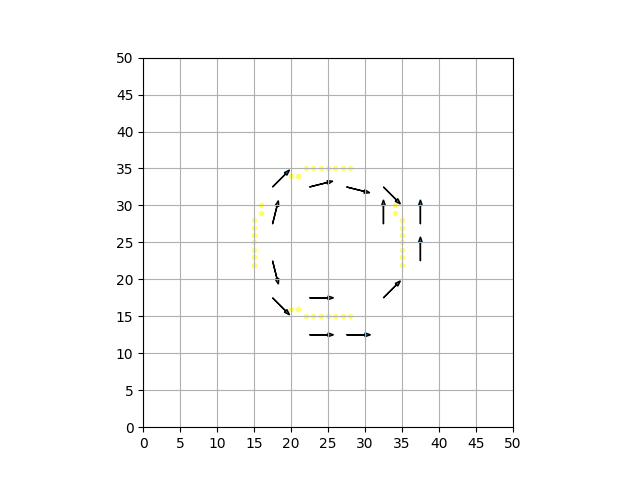
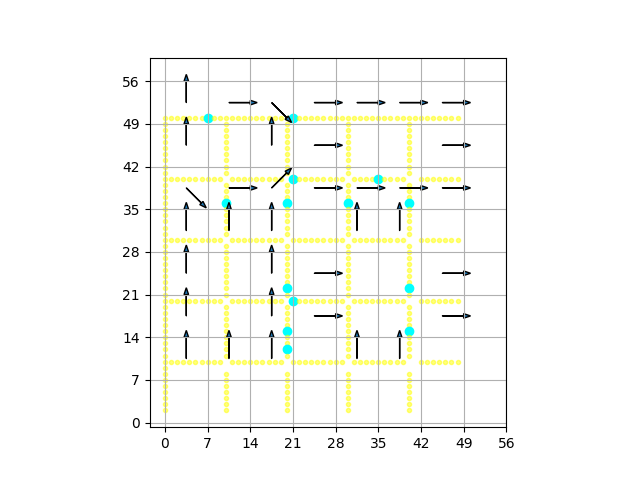
stared looking for splits and removing t points

diff --git a/main.py b/main.py
@@ -6,21 +6,31 @@ import timeit
 from math import cos, sin
 
 import numba
+from numpy.lib.stride_tricks import sliding_window_view
 import numpy as np
 from matplotlib import pyplot as plt
 from PIL import Image, ImageDraw, ImageFilter
 
 from gradient import find_gradient, find_ones
 
+BOX_SIZE = 7
 
-def find_edges(image):
+
+def edge_detection(image):
 
     image = image.filter(ImageFilter.FIND_EDGES)
     return image
 
 
 def load(file_name):
+    # Load the image
     image = Image.open(file_name)
+
+    # Convert to standard size
+    image = resize_image(image)
+
+    # Format the image as grayscale
+    image = image.convert("L")
 
     return image
 
@@ -60,11 +70,22 @@ def process_args():
     return filename
 
 
-def plot_gradients(image_array, edges, gradients, BOX_SIZE):
-    ones = find_ones(image_array)
+def plot_gradients(image_array, gradients):
+    edges_positions = find_ones(image_array)
 
-    for one in ones:
-        plt.scatter(one[1], len(image_array) - one[0], color=(1, 1, 0, 0.5), marker=".")
+    for edge in edges_positions:
+
+        if image_array[edge[0], edge[1]] == 2:
+
+            plt.scatter(
+                edge[1], len(image_array) - edge[0], color=(0, 1, 1, 1), marker="o"
+            )
+        if image_array[edge[0], edge[1]] == 1:
+
+            plt.scatter(
+                edge[1], len(image_array) - edge[0], color=(1, 1, 0, 0.5), marker="."
+            )
+
     print("Scatter done!")
     gradients = gradients[::-1]
     for i in range(0, len(gradients)):
@@ -87,18 +108,219 @@ def plot_gradients(image_array, edges, gradients, BOX_SIZE):
                 (i) * BOX_SIZE + BOX_SIZE / 2,
                 dx,
                 dy,
-                head_width=0.5,
+                head_width=0.75,
             )
 
     print("Arrows done!")
 
-    edges.show()
     plt.gca().set_aspect("equal")
     plt.grid()
     plt.xticks(np.arange(0, len(image_array[0]) + BOX_SIZE, BOX_SIZE))
     plt.yticks(np.arange(0, len(image_array) + BOX_SIZE, BOX_SIZE))
-    # plt.show()
     plt.savefig("out.png")
+
+
+def is_perpendicular(grad1, grad2):
+
+    epsilon = 1
+    if abs(grad2) == 0:
+
+        return np.isinf(abs(grad1))
+
+    if abs(grad1) == 0:
+
+        return np.isinf(grad1)
+
+    if np.isinf(abs(grad1)):
+
+        return abs(grad2) == 0
+
+    if np.isinf(abs(grad2)):
+
+        return abs(grad1) == 0
+
+    # print(grad1, grad2, abs(grad1 - (-1 / grad2)) < epsilon)
+    return abs(grad1 - (-1 / grad2)) < epsilon
+
+
+def find_nearest_edge(point, edges):
+    min_distance = math.inf
+    min_edge = None
+    for edge in edges:
+        distance = math.hypot(point[0] - edge[0], point[1] - edge[1])
+        if distance < min_distance:
+            min_distance = distance
+            min_edge = edge
+
+    if min_edge is None:
+        raise ValueError("No edge found")
+    return min_edge
+
+
+def find_splits(image_array, gradients):
+    edges = find_ones(image_array)
+    for i in range(len(gradients)):
+        for j in range(len(gradients[i])):
+
+            if np.isnan(gradients[i, j]):
+                continue
+
+            # Orthoganals
+            if i < len(gradients) - 1:
+                if not np.isnan(gradients[i + 1, j]):
+
+                    if is_perpendicular(gradients[i, j], gradients[i + 1, j]):
+                        image_i = (i + 1) * BOX_SIZE
+                        image_j = (j) * BOX_SIZE + int(BOX_SIZE / 2)
+                        point = find_nearest_edge((image_i, image_j), edges)
+                        image_array[*point] = 2
+                        # print("hi")
+
+            if i > 0:
+                if not np.isnan(gradients[i - 1, j]):
+
+                    if is_perpendicular(gradients[i, j], gradients[i - 1, j]):
+                        image_i = (i - 1) * BOX_SIZE
+                        image_j = (j) * BOX_SIZE + int(BOX_SIZE / 2)
+                        point = find_nearest_edge((image_i, image_j), edges)
+                        image_array[*point] = 2
+                        # print("hi")
+
+            if j < len(gradients[0]) - 1:
+                if not np.isnan(gradients[i, j + 1]):
+
+                    if is_perpendicular(gradients[i, j], gradients[i, j + 1]):
+                        image_i = (i) * BOX_SIZE + int(BOX_SIZE / 2)
+                        image_j = (j + 1) * BOX_SIZE
+                        point = find_nearest_edge((image_i, image_j), edges)
+                        image_array[*point] = 2
+                        # print("hi")
+
+            if j > 0:
+                if not np.isnan(gradients[i, j - 1]):
+
+                    if is_perpendicular(gradients[i, j], gradients[i, j - 1]):
+                        image_i = (i) * BOX_SIZE + int(BOX_SIZE / 2)
+                        image_j = (j - 1) * BOX_SIZE
+                        point = find_nearest_edge((image_i, image_j), edges)
+                        image_array[*point] = 2
+                        # print("hi")
+
+            # Diagonals
+            if i < len(gradients) - 1 and j < len(gradients[0]) - 1:
+                if not np.isnan(gradients[i + 1, j + 1]):
+
+                    if is_perpendicular(gradients[i, j], gradients[i + 1, j + 1]):
+                        image_i = (i + 1) * BOX_SIZE
+                        image_j = (j + 1) * BOX_SIZE
+                        point = find_nearest_edge((image_i, image_j), edges)
+                        image_array[*point] = 2
+                        # print("hi")
+
+            if i > 0 and j < len(gradients[0]) - 1:
+                if not np.isnan(gradients[i - 1, j + 1]):
+
+                    if is_perpendicular(gradients[i, j], gradients[i - 1, j + 1]):
+                        image_i = (i - 1) * BOX_SIZE
+                        image_j = (j + 1) * BOX_SIZE
+                        point = find_nearest_edge((image_i, image_j), edges)
+                        image_array[*point] = 2
+                        # print("hi")
+
+            if i < len(gradients) - 1 and j > 0:
+                if not np.isnan(gradients[i + 1, j - 1]):
+
+                    if is_perpendicular(gradients[i, j], gradients[i + 1, j - 1]):
+                        image_i = (i + 1) * BOX_SIZE
+                        image_j = (j - 1) * BOX_SIZE
+                        point = find_nearest_edge((image_i, image_j), edges)
+                        image_array[*point] = 2
+                        # print("hi")
+
+            if i > 0 and j > 0:
+                if not np.isnan(gradients[i - 1, j - 1]):
+
+                    if is_perpendicular(gradients[i, j], gradients[i - 1, j - 1]):
+                        image_i = (i - 1) * BOX_SIZE
+                        image_j = (j - 1) * BOX_SIZE
+                        point = find_nearest_edge((image_i, image_j), edges)
+                        image_array[*point] = 2
+                        # print("hi")
+
+    return image_array
+
+
+def find_t_points(image_array):
+
+    subarrays = sliding_window_view(image_array, (3, 3))
+
+    cases = [
+        np.array(
+            [
+                [0, 1, 0],
+                [1, 1, 1],
+                [0, 1, 0],
+            ]
+        ),
+        np.array(
+            [
+                [0, 1, 0],
+                [1, 1, 0],
+                [0, 1, 0],
+            ]
+        ),
+        np.array(
+            [
+                [0, 1, 0],
+                [0, 1, 1],
+                [0, 1, 0],
+            ]
+        ),
+        np.array(
+            [
+                [0, 0, 0],
+                [1, 1, 1],
+                [0, 1, 0],
+            ]
+        ),
+        np.array(
+            [
+                [0, 1, 0],
+                [1, 1, 1],
+                [0, 0, 0],
+            ]
+        ),
+    ]
+    all_center_indices = []
+    for case in cases:
+        matches = np.all(subarrays == case, axis=(2, 3))
+        match_indices = np.argwhere(matches)
+        center_indices = match_indices + 1
+        for index in center_indices:
+            all_center_indices.append(index)
+
+    return np.array(all_center_indices)
+
+
+def remove_t_points(image_array):
+    for t in find_t_points(image_array):
+        image_array[t[0], t[1]] = 0
+    return image_array
+
+
+def find_gradients(image_array):
+    w = int(np.ceil(len(image_array) / BOX_SIZE))
+    h = int(np.ceil(len(image_array[0]) / BOX_SIZE))
+
+    gradients = np.full((w, h), math.nan, dtype=np.float64)
+
+    for i in range(0, len(image_array), BOX_SIZE):
+        for j in range(0, len(image_array[i]), BOX_SIZE):
+
+            gradient = find_gradient(image_array[i : i + BOX_SIZE, j : j + BOX_SIZE])
+            gradients[i // BOX_SIZE, j // BOX_SIZE] = gradient
+
+    return gradients
 
 
 def main():
@@ -108,27 +330,26 @@ def main():
 
     image = load(filename)
 
-    image = resize_image(image)
-    image_grayscale = image.convert("L")
-
-    edges = find_edges(image_grayscale)
-    image_array = np.array(edges)
+    # Dectect the edges of the image
+    image_edges = edge_detection(image)
+    # Convert the image to an array
+    image_array = np.array(image_edges)
     image_array = clear_array(image_array)
 
-    BOX_SIZE = 5
+    # Set all edges to 1 or 0 for non-edge
+    image_array = np.minimum(image_array, np.ones(image_array.shape))
 
-    w = int(np.ceil(len(image_array) / BOX_SIZE))
-    h = int(np.ceil(len(image_array[0]) / BOX_SIZE))
+    # Remove all (that I can find) T points
+    image = remove_t_points(image_array)
 
-    gradients = np.full((w, h), math.nan, dtype=np.float64)
-    for i in range(0, len(image_array), BOX_SIZE):
-        for j in range(0, len(image_array[i]), BOX_SIZE):
+    # Find the gradient of edges in a BOX_SIZE x BOX_SIZE box
+    gradients = find_gradients(image_array)
 
-            gradient = find_gradient(image_array[i : i + BOX_SIZE, j : j + BOX_SIZE])
-            gradients[i // BOX_SIZE, j // BOX_SIZE] = gradient
+    # Split the lines using the gradient
+    image_array = find_splits(image_array, gradients)
 
     # Display
-    plot_gradients(image_array, edges, gradients, BOX_SIZE)
+    plot_gradients(image_array, gradients)
 
 
 if __name__ == "__main__":

diff --git a/gradient.py b/gradient.py
@@ -1,8 +1,7 @@
 import math
-from typing import List, Tuple
+from typing import List
 import numba
 import numpy as np
-import tcod
 
 
 @numba.jit()
@@ -45,9 +44,11 @@ def get_extreme(points):
 
 @numba.jit()
 def find_ones(image_array):
+
     points = []
     for i in range(len(image_array)):
         for j in range(len(image_array[i])):
+
             if image_array[i, j] != 0:
                 points.append([i, j])
     return points
@@ -111,7 +112,7 @@ def find_gradient(image_array):
         return grad
 
     if len(find_entrances(image_array)) > 2:
-        print("WARN: MULITPLE ENTIES")
+        print("WARNING: MULITPLE ENTRIES")
         print(extreme)
         print_image(image_array)
         return math.nan

diff --git a/make.py b/make.py
@@ -8,5 +8,11 @@ draw.line([(20, 0), (20, 50)])
 draw.line([(30, 0), (30, 50)])
 draw.line([(40, 0), (40, 50)])
 
+draw.line([(0, 0), (50, 0)])
+draw.line([(0, 10), (50, 10)])
+draw.line([(0, 20), (50, 20)])
+draw.line([(0, 30), (50, 30)])
+draw.line([(0, 40), (50, 40)])
 
-image.save("line.png")
+
+image.save("line_cross.png")
